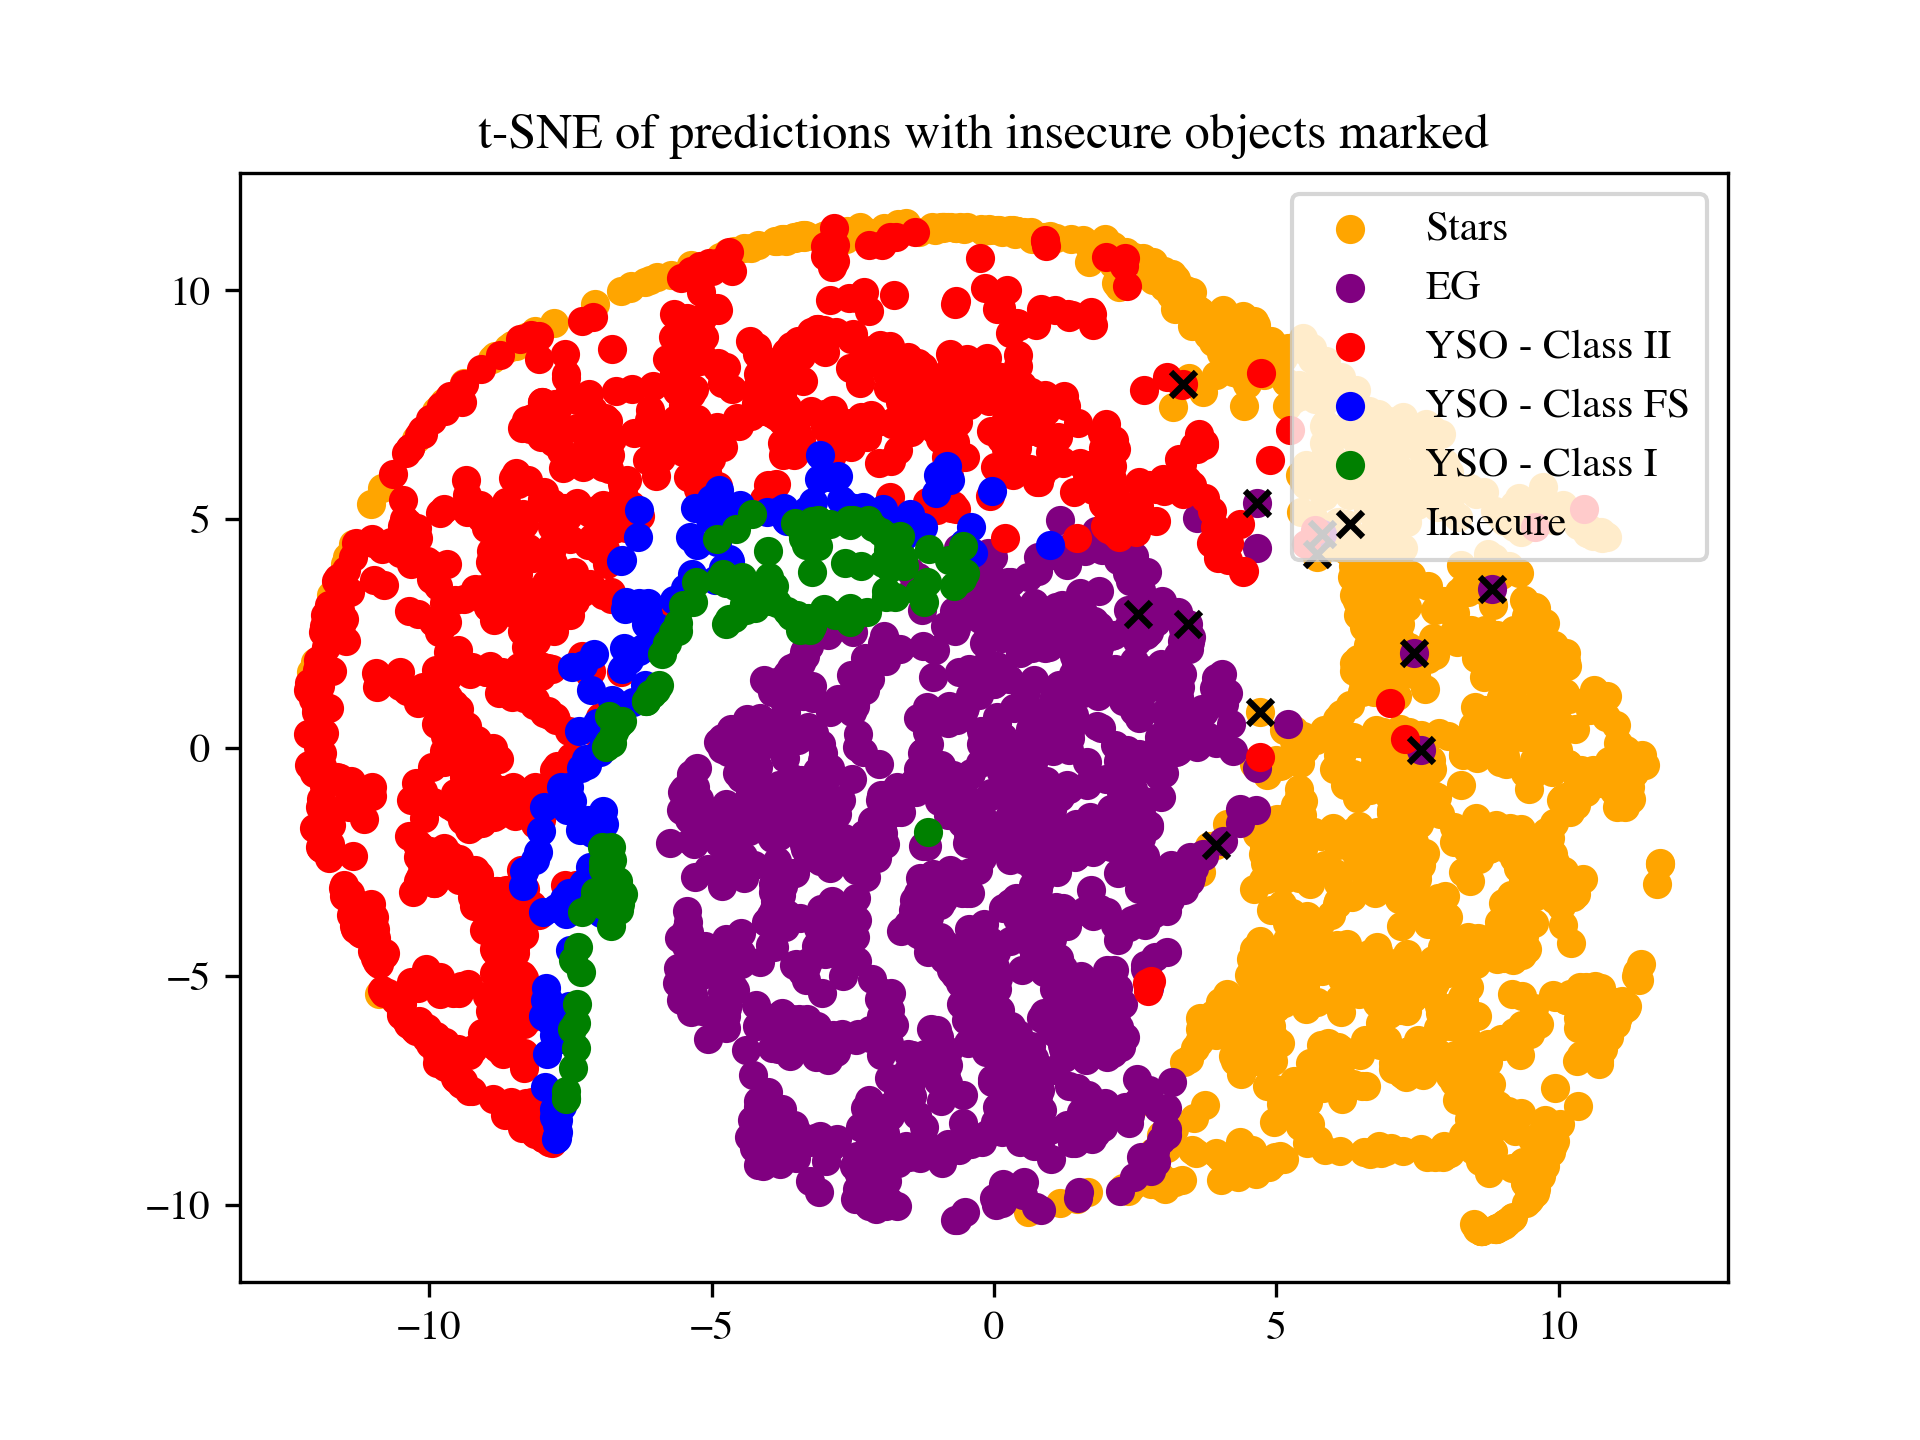
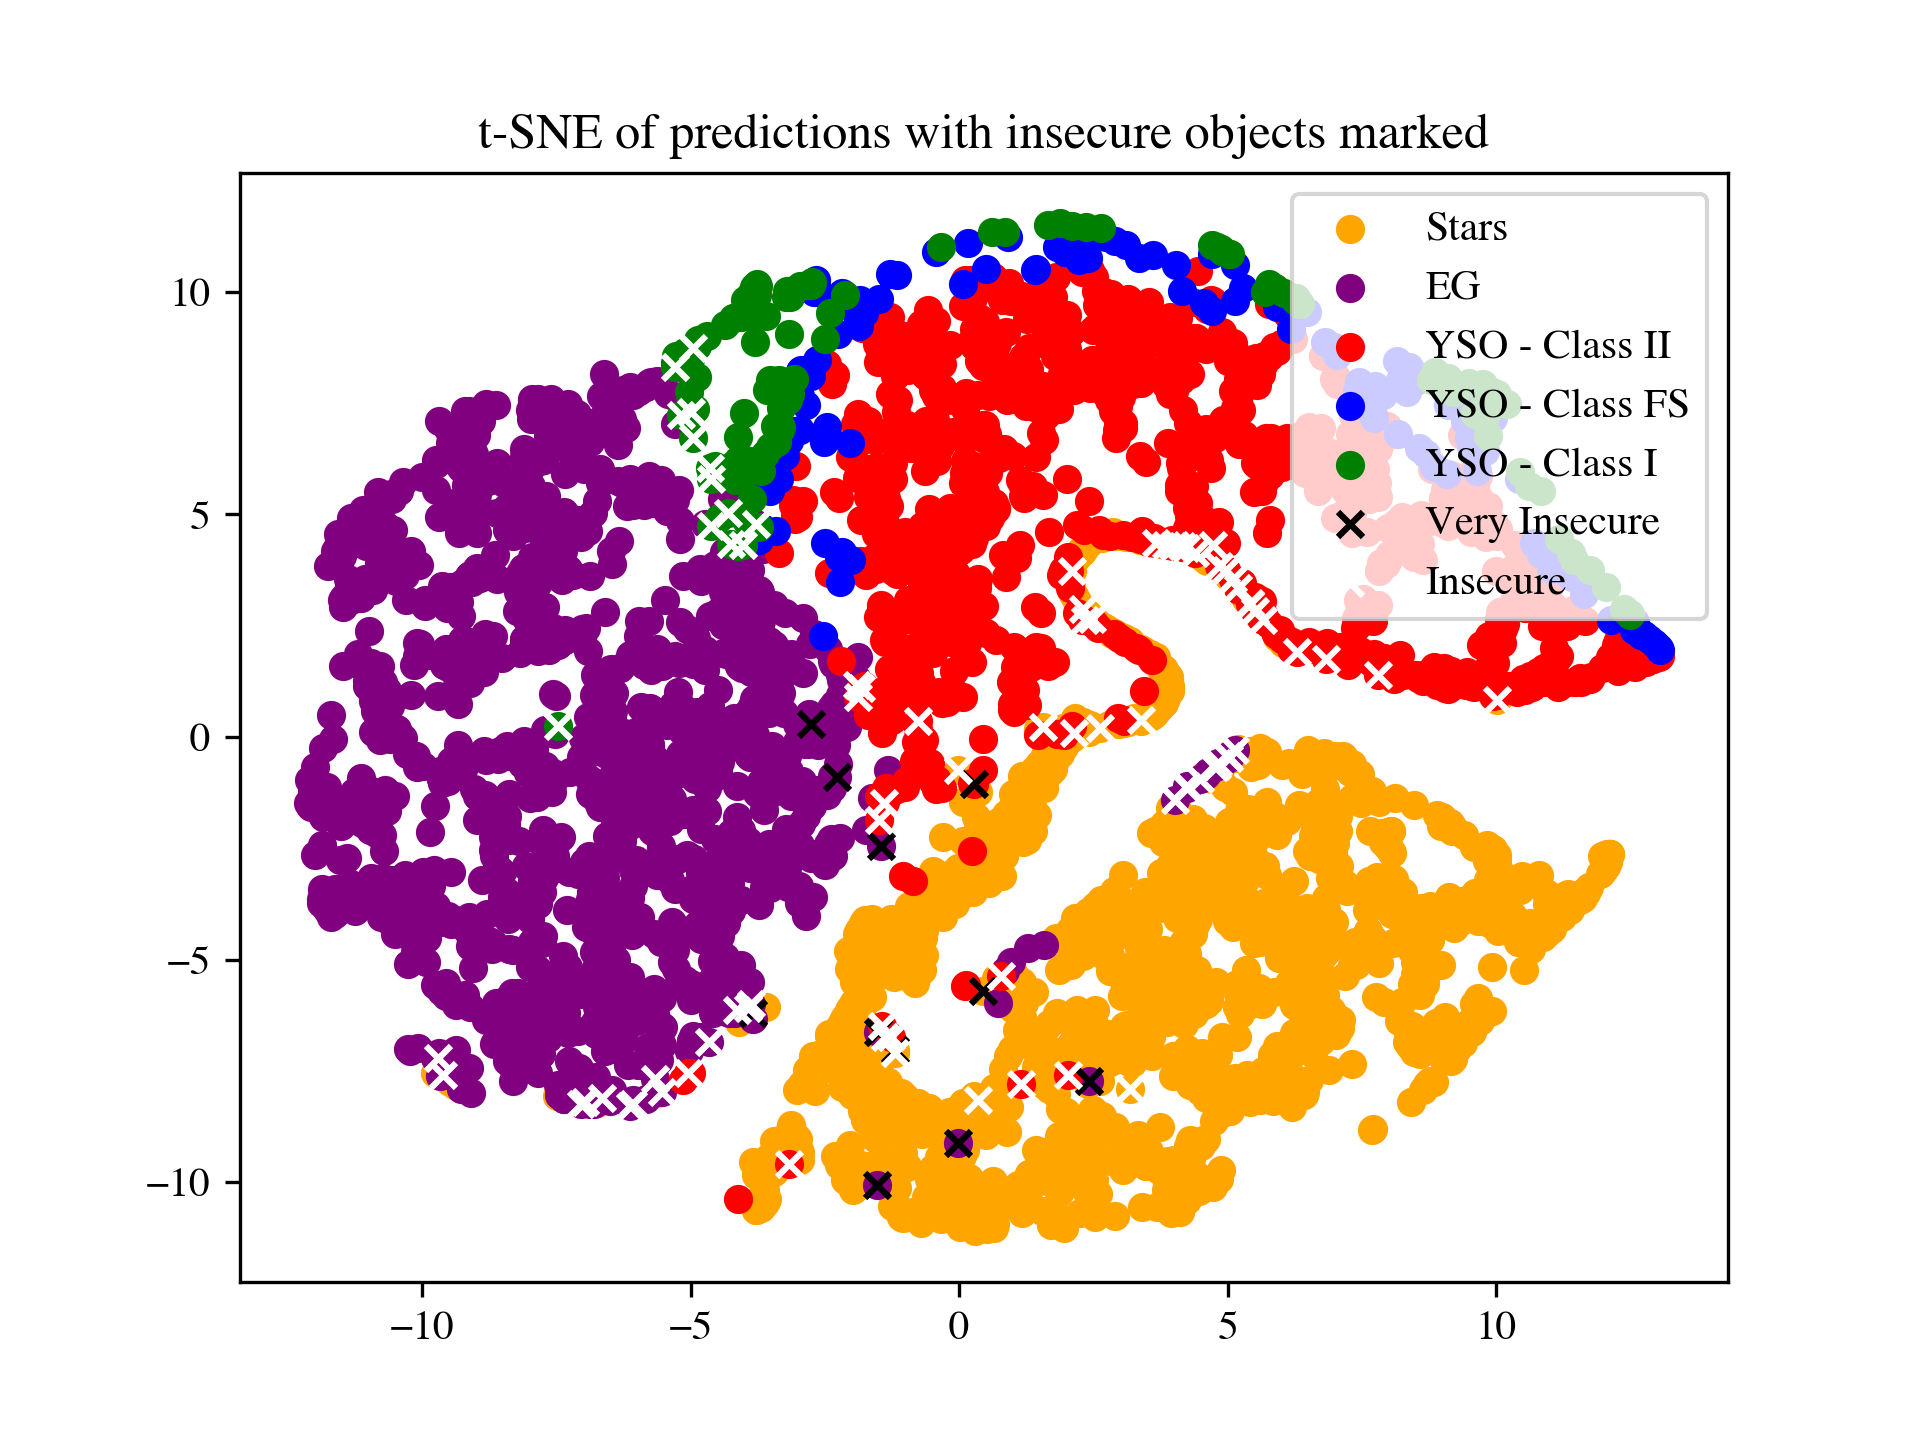
FullScript with CIII and results

diff --git a/Phase_3__SPITZER_Classification/Scripts/FullScript.py b/Phase_3__SPITZER_Classification/Scripts/FullScript.py
@@ -12,8 +12,8 @@ from NN_Defs import BaseMLP, TwoLayerMLP, MLP_data_setup, test, preproc_yso
 from custom_dataloader import replicate_data_single
 
 device = torch.device("cpu")
-outfile = "../Results/FullScript_Classification_Report.txt"
-
+outfile = "../Results/FullScript_Classification_Report_CIII.txt"
+ClassIII = True
 # File to use to scale rest of data
 file_tr = "../Data/c2d_1k_INP.npy" 
 file_tr_tar = "../Data/c2d_1k_TAR.npy" 
@@ -58,15 +58,15 @@ RF_preds_tr = rfcl.predict(inp_TR)
 RF_preds_te = rfcl.predict(inp_TE)
 
 # # Change preds to match up with new scheme
-preproc_yso(inp_tr[:,-1],MLP_preds_tr)
-preproc_yso(inp_te[:,-1],MLP_preds_te)
+preproc_yso(inp_tr[:,-1],MLP_preds_tr,three=ClassIII)
+preproc_yso(inp_te[:,-1],MLP_preds_te,three=ClassIII)
 
-preproc_yso(inp_tr[:,-1],RF_preds_tr)
-preproc_yso(inp_te[:,-1],RF_preds_te)
+preproc_yso(inp_tr[:,-1],RF_preds_tr,three=ClassIII)
+preproc_yso(inp_te[:,-1],RF_preds_te,three=ClassIII)
 
-preproc_yso(inp_tr[:,-1],tar_tr)
-preproc_yso(inp_te[:,-1],tar_te)
-
+preproc_yso(inp_tr[:,-1],tar_tr,three=ClassIII)
+preproc_yso(inp_te[:,-1],tar_te,three=ClassIII)
+print(np.unique(tar_tr))
 # Classify into YSO types
 X_tr = np.load("../Data/c2d_YSO_INP.npy") # Load input data
 Y_tr = np.load("../Data/c2d_YSO_TAR.npy") # Load target data
@@ -76,8 +76,12 @@ inp_tr_YSO, tar_tr_YSO = replicate_data_single(X_tr, Y_tr, [len(np.where(Y_tr==0
 inp_tr_YSO = np.delete(inp_tr_YSO,np.s_[8:10],axis=1)
 YSO_forscale, YSO_train, YSO_test = MLP_data_setup(inp_tr_YSO, tar_tr_YSO,inp_TR, tar_tr, inp_TE, tar_te)
 
-YSO_NN = BaseMLP(9, 20, 5)
-YSO_NN.load_state_dict(torch.load("../MLP_Settings/IRAC_YSO_OneLayer_LR_0.1_MO_0.9_NEUR_20_Settings", map_location=device))
+if ClassIII:
+    YSO_NN = BaseMLP(9, 10, 6)
+    YSO_NN.load_state_dict(torch.load("../MLP_Settings//IRAC_YSO_CIII_OneLayer_LR_0.1_MO_0.6_NEUR_10_Settings", map_location=device))
+else:
+    YSO_NN = BaseMLP(9, 20, 5)
+    YSO_NN.load_state_dict(torch.load("../MLP_Settings/IRAC_YSO_OneLayer_LR_0.1_MO_0.9_NEUR_20_Settings", map_location=device))
 
 YSO_preds_tr = test(YSO_NN, YSO_train, device)
 YSO_preds_te = test(YSO_NN, YSO_test, device)
@@ -122,7 +126,10 @@ pred_te = np.array(pred_te)
 
 
 YSE_labels = ["YSO","EG","Stars"]
-YSO_labels = ["YSO - Class I","YSO - Class FS","YSO - Class II","EG","Stars"]
+if ClassIII:
+    YSO_labels = ["YSO - Class I","YSO - Class FS","YSO - Class II","YSO - Class III","EG","Stars"]
+else:    
+    YSO_labels = ["YSO - Class I","YSO - Class FS","YSO - Class II","EG","Stars"]
 
 with open("../Results/"+outfile,"w") as f:
     f.write("MLP Results \n Training data (c2d Survey)\n")
@@ -144,7 +151,7 @@ with open("../Results/"+outfile,"w") as f:
 
 
 # t-SNE
-def tsne_plot(inp,pred,flag,type):
+def tsne_plot(inp,pred,flag,type,three=False):
     n_components = 2
     tsne = TSNE(
         n_components=n_components,
@@ -157,15 +164,21 @@ def tsne_plot(inp,pred,flag,type):
 
     plt.rcParams["font.family"] = "times"
     plt.title("t-SNE of predictions with insecure objects marked")
-    plt.scatter(Y[np.where(pred==4)[0], 0], Y[np.where(pred==4)[0], 1], c="orange",label='Stars')
-    plt.scatter(Y[np.where(pred==3)[0], 0], Y[np.where(pred==3)[0], 1], c="purple",label='EG')
+    if three:
+        plt.scatter(Y[np.where(pred==5)[0], 0], Y[np.where(pred==5)[0], 1], c="orange",label='Stars')
+        plt.scatter(Y[np.where(pred==4)[0], 0], Y[np.where(pred==4)[0], 1], c="purple",label='EG')
+        plt.scatter(Y[np.where(pred==3)[0], 0], Y[np.where(pred==3)[0], 1], c="cyan",label='YSO - Class III')
+    else:
+        plt.scatter(Y[np.where(pred==4)[0], 0], Y[np.where(pred==4)[0], 1], c="orange",label='Stars')
+        plt.scatter(Y[np.where(pred==3)[0], 0], Y[np.where(pred==3)[0], 1], c="purple",label='EG')
     plt.scatter(Y[np.where(pred==2)[0], 0], Y[np.where(pred==2)[0], 1], c="r",label='YSO - Class II')
     plt.scatter(Y[np.where(pred==1)[0], 0], Y[np.where(pred==1)[0], 1], c="b",label='YSO - Class FS')
     plt.scatter(Y[np.where(pred==0)[0], 0], Y[np.where(pred==0)[0], 1], c="g",label='YSO - Class I')
-    plt.scatter(Y[np.where(flag==3)[0], 0], Y[np.where(flag==3)[0], 1], c="k",marker='x',label='Insecure')
+    plt.scatter(Y[np.where(flag==3)[0], 0], Y[np.where(flag==3)[0], 1], c="k",marker='x',label='Very Insecure')
+    plt.scatter(Y[np.where(flag==2)[0], 0], Y[np.where(flag==2)[0], 1], c="w",marker='x',label='Insecure')
     plt.legend()
     plt.savefig(f"../Results/Figures/t-SNE_final_{type}.png",dpi=300)
     plt.close()
 
-tsne_plot(inp_TR,pred_tr,flags_YSO_tr,"c2d")
-tsne_plot(inp_TE,pred_te,flags_YSO_te,"NGC 2264")
+tsne_plot(inp_TR,pred_tr,flags_YSO_tr,"c2d_CIII",three=ClassIII)
+tsne_plot(inp_TE,pred_te,flags_YSO_te,"NGC 2264_CIII",three=ClassIII)

diff --git a/Phase_3__SPITZER_Classification/Scripts/network_runner.py b/Phase_3__SPITZER_Classification/Scripts/network_runner.py
@@ -1,14 +1,11 @@
 import time
 tic = time.perf_counter()
-# Check to make sure running on M1, will say 'arm'
-import platform
-print(platform.processor())
 import warnings
 warnings.filterwarnings('ignore')
 
 import torch
 import numpy as np
-from custom_dataloader import replicate_data, replicate_data_single
+from custom_dataloader import replicate_data_single
 from NN_Defs import BaseMLP, TwoLayerMLP, FiveLayerMLP, find_best_MLP, MLP_data_setup, preproc_yso
 import multiprocessing as mp
 
@@ -32,7 +29,7 @@ X_va = np.float32(X_va)
 Y_va = np.float32(Y_va)
 Y_va = preproc_yso(alph=X_va[:,-1],tar=Y_va)
 inp_va, tar_va = replicate_data_single(X_va, Y_va,\
-     [len(np.where(Y_va==0.)[0]),len(np.where(Y_va==1.)[0]),len(np.where(Y_va==2.)[0]),len(np.where(Y_va==3.)[0]),len(np.where(Y_va==4.)[0])])
+     [len(np.where(Y_va==0.)[0]),len(np.where(Y_va==1.)[0]),len(np.where(Y_va==2.)[0]),len(np.where(Y_va==3.)[0]),len(np.where(Y_va==4.)[0]),len(np.where(Y_va==5.)[0])])
 
 
 
@@ -43,7 +40,7 @@ X_te = np.float32(X_te)
 Y_te = np.float32(Y_te)
 Y_te = preproc_yso(alph=X_te[:,-1],tar=Y_te)
 inp_te, tar_te = replicate_data_single(X_te, Y_te,\
-      [len(np.where(Y_te==0.)[0]),len(np.where(Y_te==1.)[0]),len(np.where(Y_te==2.)[0]),len(np.where(Y_te==3.)[0]),len(np.where(Y_te==4.)[0])])
+      [len(np.where(Y_te==0.)[0]),len(np.where(Y_te==1.)[0]),len(np.where(Y_te==2.)[0]),len(np.where(Y_te==3.)[0]),len(np.where(Y_te==4.)[0]),len(np.where(Y_te==5.)[0])])
 
 inp_tr = np.delete(inp_tr,np.s_[8:10],axis=1)
 inp_va = np.delete(inp_va,np.s_[8:10],axis=1)
@@ -57,14 +54,14 @@ inp_te = np.delete(inp_te,np.s_[8:10],axis=1)
 
 train_loader, val_loader, test_loader = MLP_data_setup(inp_tr, tar_tr, inp_va, tar_va, inp_te, tar_te)
 
-custom_labs = ['YSO - Class I','YSO - Class FS','YSO - Class II','EG','Star']
+custom_labs = ['YSO - Class I','YSO - Class FS','YSO - Class II','YSO - Class III','EG','Star']
 
 if __name__ == '__main__':
     momentum_vals = np.array([0.6, 0.75, 0.9])
     learning_rate_vals = np.array([1e-1, 1e-2, 1e-3])
     epochs = 3000
     columns = 9
-    filepath = "../Results/MLP/YSO_1k/"
+    filepath = "../Results/MLP/YSO_1k_CIII/"
     filepaths = [filepath+"OneLayer_", filepath+"TwoLayer_", filepath+"FiveLayer_"]
 
     # We want to run a loop over the momentum and learning rate values, and use the

diff --git a/Phase_3__SPITZER_Classification/Scripts/NN_Defs.py b/Phase_3__SPITZER_Classification/Scripts/NN_Defs.py
@@ -359,15 +359,14 @@ def main(epochs, NetInstance, OptInstance, outfile, train_loader, val_loader, te
 
     return f1_score(val_truth_values,val_predictions,average='macro',zero_division=1)
 
-def preproc_yso(alph,tar):
+def preproc_yso(alph,tar,three=False):
     """Pre-processing for training/validation of the different YSO kinds
     0 = Class I
     1 = Flat-Spectrum
     2 = Class II
-    3 = EG
-    4 = Stars"""
-    tar[np.where(tar==1)[0]] = 3 # Reclassify EG sources
-    tar[np.where(tar==2)[0]] = 4 # Reclassify Star sources
+    3 = Class III
+    4 = EG
+    5 = Stars"""
 
     yso = np.where(tar==0)[0]
     alph = alph[yso]
@@ -375,9 +374,19 @@ def preproc_yso(alph,tar):
     ci = np.where((alph>0.3))[0]
     cfs = np.where((alph<=0.3) & (alph>=-0.3))[0]
     cii = np.where((alph<-0.3))[0]
-
-    tar[yso[ci]] = 0
-    tar[yso[cfs]] = 1
-    tar[yso[cii]] = 2
+    if three:
+        ciii = np.where((alph<-1.6))[0]
+        tar[np.where(tar==1)[0]] = 4 # Reclassify EG sources
+        tar[np.where(tar==2)[0]] = 5 # Reclassify Star sources
+        tar[yso[ci]] = 0
+        tar[yso[cfs]] = 1
+        tar[yso[cii]] = 2
+        tar[yso[ciii]] = 3
+    else:
+        tar[np.where(tar==1)[0]] = 3 # Reclassify EG sources
+        tar[np.where(tar==2)[0]] = 4 # Reclassify Star sources
+        tar[yso[ci]] = 0
+        tar[yso[cfs]] = 1
+        tar[yso[cii]] = 2
 
     return tar
